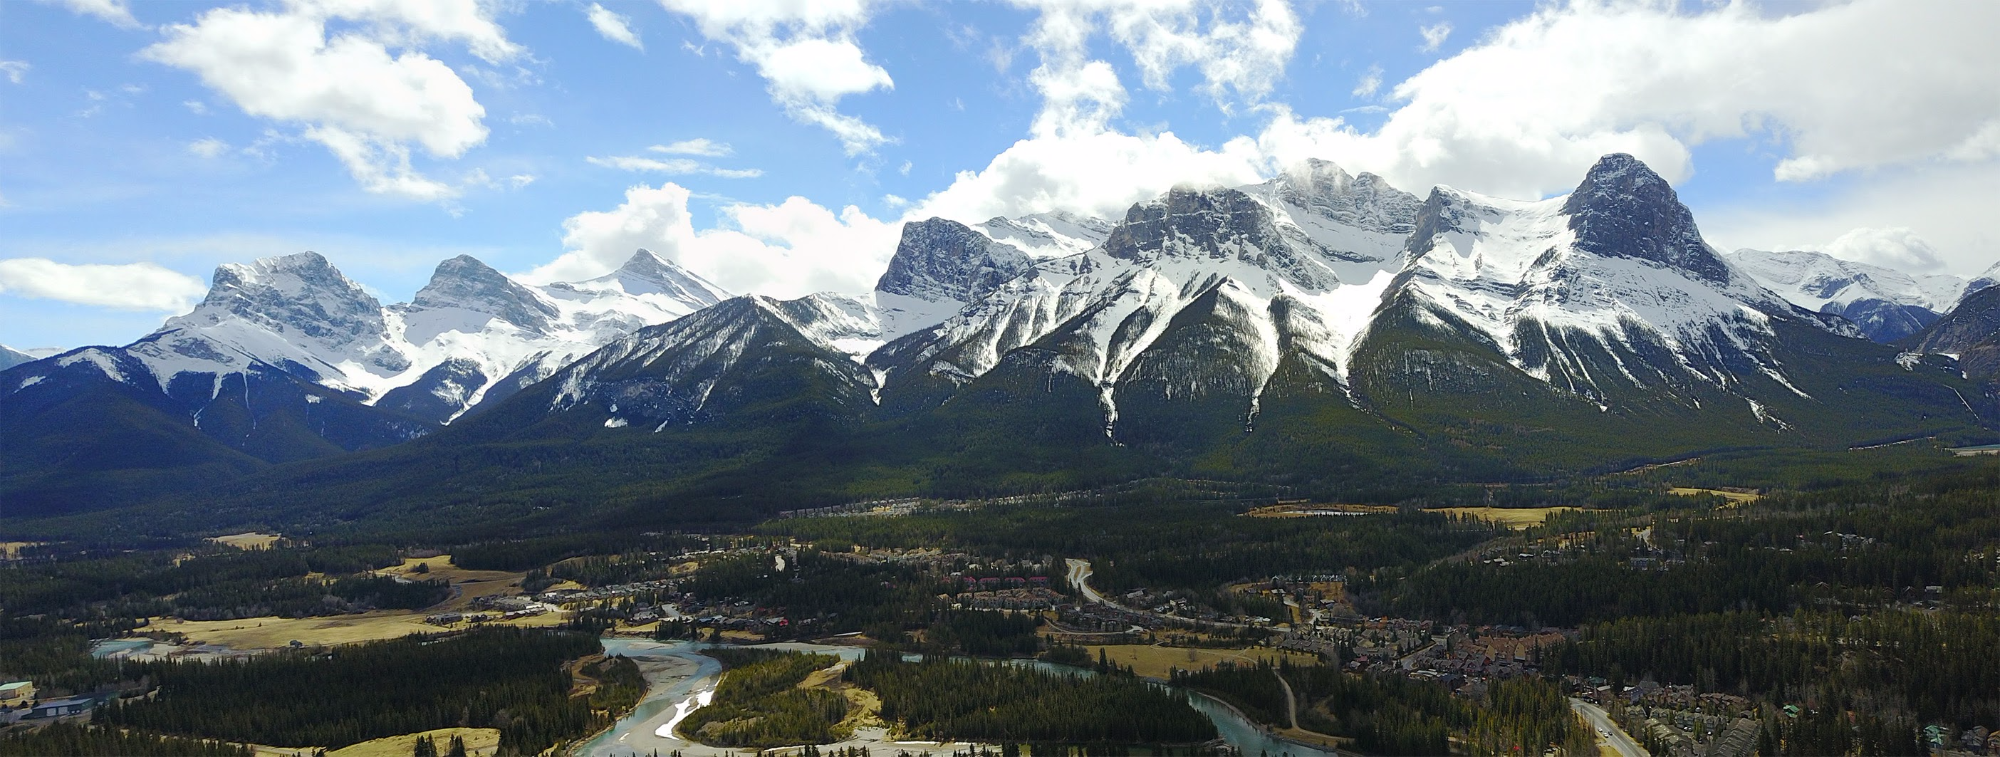
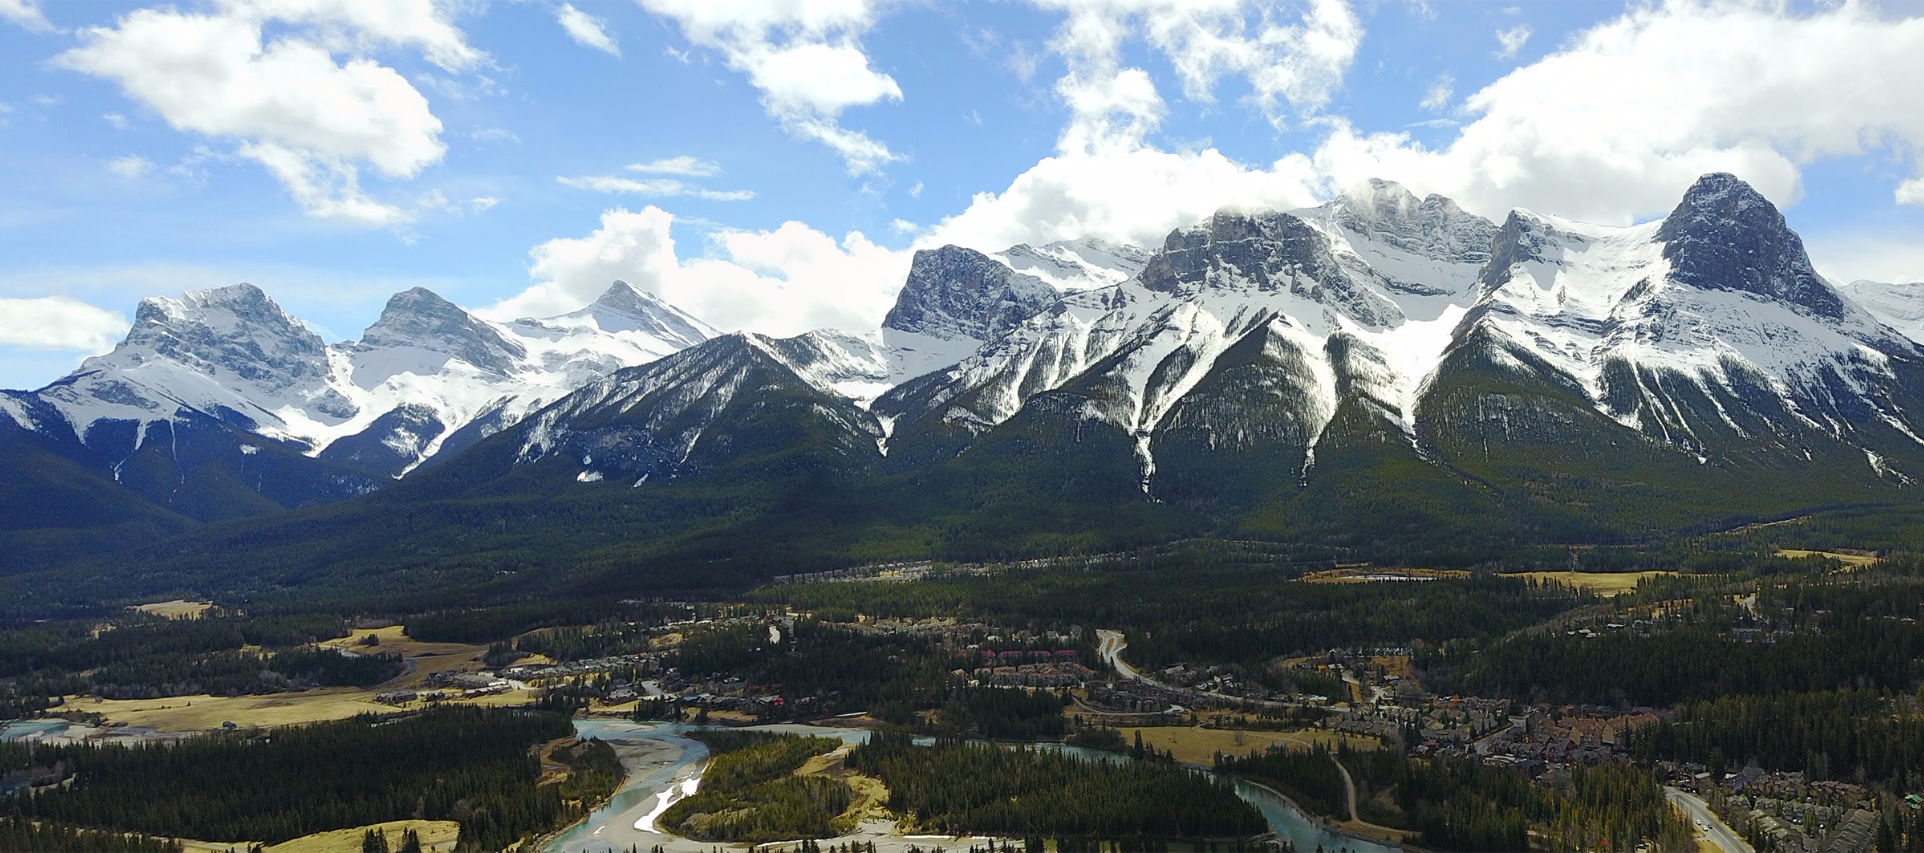
fixed a few issues when scaling

diff --git a/index.html b/index.html
@@ -41,15 +41,15 @@
 	</ul>
 
   <div id="parrallax" class="parallax-container">
-    <div class="parallax"><img src="assets/images/rockiesCompressed.JPG"></div>
+    <div class="parallax" ><img id="mountains" class="backgroundImages" src="assets/images/rockiesCompressed.JPG"></div>
   </div>
   
   <div class="section white">
     <div class="row container">
-    	<div class="col s4"><img src="assets/images/hstaack.JPG" alt="me!" class="circle responsive-img"></div>
-      <h2 class="header"> haley parris staack</h2>
-      <p class="grey-text text-darken-3 lighten-3">about information</p>
-      <h5>Lorem ipsum dolor sit amet, consectetuer adipiscing elit,
+    	<div class="col l4 m4 s12"><img src="assets/images/hstaack.JPG" alt="me!" class="circle responsive-img"></div>
+      <h1 class="header"> haley parris staack</h1>
+      <h5 class="grey-text text-darken-3 lighten-3">about information</h5>
+      <p class="flow-text">Lorem ipsum dolor sit amet, consectetuer adipiscing elit,
       sed diam nonummy nibh euismod tincidunt ut laoreet dolore
       magna aliquam erat volutpat. Ut wisi enim ad minim veniam,
       quis nostrud exerci tation ullamcorper suscipit lobortis nisl
@@ -61,19 +61,19 @@
       in iis qui facit eorum claritatem. Investigationes
       demonstraverunt lectores legere me lius quod ii legunt saepius.
       Claritas est etiam processus dynamicus, qui sequitur mutationem
-      consuetudium lectorum. </h5>
+      consuetudium lectorum. </p>
     </div>
   </div>
   
   <div class="parallax-container">
-    <div class="parallax"><img src="assets/images/hairbackground.JPG"></div>
+    <div class="parallax"><img class="backgroundImages" src="assets/images/hairbackground.JPG"></div>
   </div>
   
   <div id="hair" class="section white section scrollspy">
     <div class="row container">
       <h2 class="header">hair</h2>
-      <p class="grey-text text-darken-3 lighten-3">this talks about cosmetology career</p>
-      <h5>Lorem ipsum dolor sit amet, consectetuer adipiscing elit,
+      <h5 class="grey-text text-darken-3 lighten-3">this talks about cosmetology career</h5>
+      <p class="flow-text">Lorem ipsum dolor sit amet, consectetuer adipiscing elit,
       sed diam nonummy nibh euismod tincidunt ut laoreet dolore
       magna aliquam erat volutpat. Ut wisi enim ad minim veniam,
       quis nostrud exerci tation ullamcorper suscipit lobortis nisl
@@ -89,7 +89,7 @@
       quam nunc putamus parum claram, anteposuerit litterarum formas
       humanitatis per seacula quarta decima et quinta decima. Eodem
       modo typi, qui nunc nobis videntur parum clari, fiant sollemnes
-      in futurum.</h5>
+      in futurum.</p>
       
     	<div id="hair-photos-div">
     		<div class='slider'><ul id="hair-slides" class='slides'></div></ul>
@@ -102,14 +102,14 @@
   </div>
   
   <div class="parallax-container">
-    <div class="parallax"><img src="assets/images/photography.JPG"></div>
+    <div class="parallax"><img class="backgroundImages" src="assets/images/photography.JPG"></div>
   </div>
   
   <div id="photography" class="section white section scrollspy">
     <div class="row container">
       <h2 class="header">photography</h2>
-      <p class="grey-text text-darken-3 lighten-3">crap about my photography skillz yo</p>
-      <h5>Lorem ipsum dolor sit amet, consectetuer adipiscing elit,
+      <h5 class="grey-text text-darken-3 lighten-3">crap about my photography skillz yo</h5>
+      <p class="flow-text">Lorem ipsum dolor sit amet, consectetuer adipiscing elit,
       sed diam nonummy nibh euismod tincidunt ut laoreet dolore
       magna aliquam erat volutpat. Ut wisi enim ad minim veniam,
       quis nostrud exerci tation ullamcorper suscipit lobortis nisl
@@ -120,7 +120,7 @@
       assum. Typi non habent claritatem insitam; est usus legentis
       in iis qui facit eorum claritatem. Investigationes
       demonstraverunt lectores legere me lius quod ii legunt saepius.
-      Claritas est eti.</h5>
+      Claritas est eti.</p>
       
       <div id="photography-photos-div">
     		<div class='slider'><ul id="photo-slides" class='slides'></div></ul>

diff --git a/script.js b/script.js
@@ -3,7 +3,8 @@
 $(document).ready(function(){
 
   var mapKey = config.MAP_KEY;  
-  var isMobile = window.matchMedia("only screen and (max-width: 1200px)");
+  var isMobile = window.matchMedia("only screen and (max-width: 800px)");
+  
   var hairGallery = [["assets/images/bstaack.JPG", "some of my best work"], ["assets/images/bstaack.JPG", "heyoh"], ["assets/images/bstaack.JPG", "iasipd"], 
                     ["assets/images/bstaack.JPG", "some of my best work"], ["assets/images/bstaack.JPG", "heyoh"], ["assets/images/bstaack.JPG", "iasipd"]];
   var photoGallery = [["assets/images/hstaack.JPG", "some of my best work"], ["assets/images/hstaack.JPG", "heyoh"], ["assets/images/hstaack.JPG", "iasipd"], 
@@ -25,7 +26,7 @@ $(document).ready(function(){
      html += "<img class='materialboxed hair-photos' data-caption='" + array[i][1] + "' src=" + array[i][0] + ">";
     }
     $(id).html(html);
-    $(".hair-photos").css({"width": "400px", "margin-right": ".4em"});
+    $(".hair-photos").css({"width": "350px", "margin-right": ".2em"});
       //images take up whole screen on click
     $('.materialboxed').materialbox();  
   };
@@ -37,13 +38,13 @@ $(document).ready(function(){
       html += "<li><img src=" + array[i][0] + "><div class='caption left-align'><h5 class='light grey-text text-lighten-3'>" + array[i][1] + "</h5></div></li>";
     }
     $(id).html(html);
-    // let x = $(id).width();
-    // // $(id).height(x);
-    // $(".slider").height(x);
+    $('.slider').height('600px');
     $('.slider').slider(); 
+    $('.slider').slider('start');
   };
   
 //if on mobile put a slider for images
+
   if (isMobile.matches) { 
     photoSlider(hairGallery, "#hair-slides");
     photoSlider(photoGallery, "#photo-slides");
@@ -53,6 +54,7 @@ $(document).ready(function(){
       photosGallery(photoGallery, "#photography-photos-div");
   }
   
+
   
   
   var mapHtml = "<script>function initMap() {var myLatLng = {lat: 36.344554, lng: -82.400961}; var map = new google.maps.Map(document.getElementById('map'), { center: myLatLng, scrollwheel: false, zoom: 12}); var marker = new google.maps.Marker({map: map, position: myLatLng, title: 'XOXO Salon'});}</script><script src='https://maps.googleapis.com/maps/api/js?key=" + mapKey + "&callback=initMap' async defer></script>";

diff --git a/layout.css b/layout.css
@@ -1,10 +1,24 @@
-@media only screen and (max-height: 800px) {
-    #parrallax {
-        height: 200px;
+@media only screen and (max-height: 700px) {
+    #mountains {
+      max-height: 200px;
+      left: 0;
+      top: 0;
     }
     
     
+    
 }
+
+@media only screen and (min-width: 993px) {
+  #begin {
+    margin-left: 2em;
+  }
+}
+
+
+
+/*-------------------------------------------------------------------------------------------------------------------------------*/
+
 
 .material-placeholder {
   display: inline-block;
@@ -20,3 +34,4 @@
   height: 600px;
   background-color: grey;
  }
+ 
